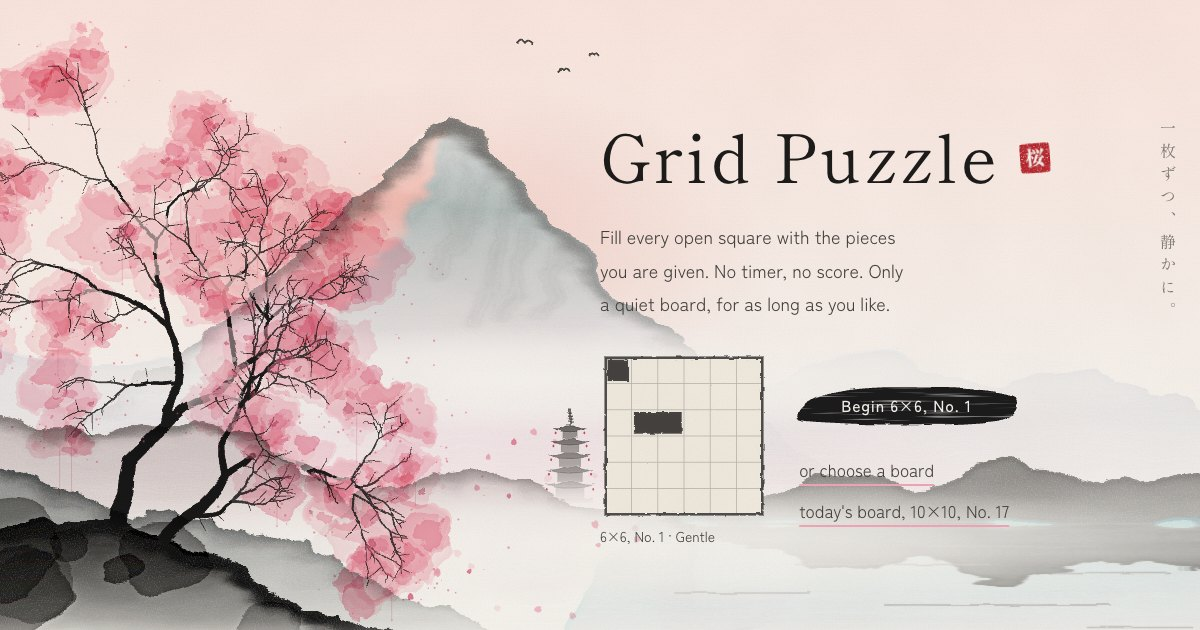
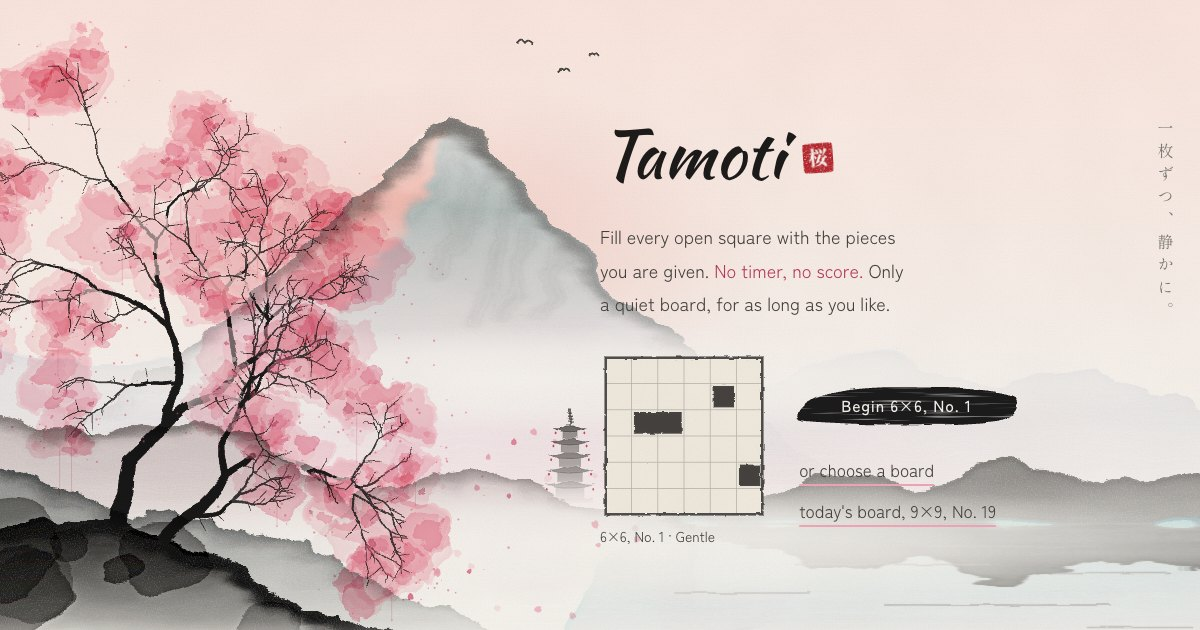
Name the game Tamoti; settle the type; plain coloured highlights
- The name is Tamoti: hero, footer, page title, share text, link preview
- Type settled: Shippori Mincho for headings, Kaushan Script for the
  name, Zen Kaku Gothic New for body; Cormorant Garamond italic only for
  the one picked-out word in a heading. The type switcher and the fonts
  on trial are gone, so the page loads fewer fonts.
- Highlighted words in running text ("No timer, no score.", "filled",
  "nothing to lose") are now just deep pink, no block behind them

diff --git a/src/styles/tokens.css b/src/styles/tokens.css
@@ -79,66 +79,20 @@
 
   /*
     Type, in four roles:
-      display  headings: a high-contrast serif that echoes mincho brushwork;
-      brand    the name, in the hero and the footer: a brush face;
-      accent   the italic for one picked-out word, and for highlights;
-      ui       everything you read.
-    Japanese (the seal and the calligraphy) is always Shippori Mincho.
-    These are the recommended set; others are on trial (see FontSwitcher.tsx).
+      display  headings: Shippori Mincho, whose letters are slightly brush-tipped;
+      brand    the name, Tamoti, in the hero and the footer: Kaushan Script, a flowing brush;
+      accent   the italic for one picked-out word in a heading: Cormorant Garamond
+               (Shippori Mincho has no italic of its own);
+      ui       everything you read: Zen Kaku Gothic New.
+    Japanese (the seal and the calligraphy) is Shippori Mincho too.
   */
   --font-japanese: 'Shippori Mincho', 'Hiragino Mincho ProN', 'Yu Mincho', serif;
-  --font-display: 'Cormorant Garamond', 'Times New Roman', serif;
-  --display-tracking: 0.01em;
-  /* Cormorant's lowercase letters are short; this sets them to a comfortable height. */
-  --display-adjust: 0.47;
-  --font-brand: 'Yuji Syuku', var(--font-japanese);
-  --brand-tracking: 0.02em;
-  --brand-adjust: none;
-  --font-accent: 'Cormorant Garamond', 'Times New Roman', serif;
-  --accent-scale: 1;
-  --font-ui: 'Zen Kaku Gothic New', 'Hiragino Sans', system-ui, sans-serif;
-}
-
-/* Headings on trial. Shippori Mincho, Marcellus and Gilda have no italic, so picked-out words stay in Cormorant italic. */
-:root[data-heading='mincho'] {
   --font-display: var(--font-japanese);
   --display-tracking: 0.04em;
-  --display-adjust: none;
-  --accent-scale: 1.12;
-}
-
-:root[data-heading='marcellus'] {
-  --font-display: 'Marcellus', 'Times New Roman', serif;
-  --display-tracking: 0.03em;
-  --display-adjust: none;
-  --accent-scale: 1.1;
-}
-
-:root[data-heading='gilda'] {
-  --font-display: 'Gilda Display', 'Times New Roman', serif;
-  --display-tracking: 0.01em;
-  --display-adjust: none;
-  --accent-scale: 1.1;
-}
-
-/* The brush face for the name, on trial. "none" sets the name in the heading face. */
-:root[data-brush='kurenaido'] {
-  --font-brand: 'Zen Kurenaido', var(--font-japanese);
-  --brand-tracking: 0.03em;
-}
-
-:root[data-brush='kaushan'] {
   --font-brand: 'Kaushan Script', cursive;
   --brand-tracking: 0;
-}
-
-:root[data-brush='none'] {
-  --font-brand: var(--font-display);
-  --brand-tracking: var(--display-tracking);
-  --brand-adjust: var(--display-adjust);
-}
-
-/* Body text on trial. */
-:root[data-body='jost'] {
-  --font-ui: 'Jost', system-ui, sans-serif;
+  --font-accent: 'Cormorant Garamond', 'Times New Roman', serif;
+  /* Cormorant's letters are small for their size, so its accent words are set a little larger. */
+  --accent-scale: 1.12;
+  --font-ui: 'Zen Kaku Gothic New', 'Hiragino Sans', system-ui, sans-serif;
 }

diff --git a/src/styles/global.css b/src/styles/global.css
@@ -64,31 +64,21 @@ h2 {
 /*
   Picking out words, the way an editorial page does:
   - .accent: one word of a heading in italic, in deep pink;
-  - .highlight: a few words set in a solid block of deep pink, used sparingly.
-  Deep pink (sakura-700) is the one pink that reads clearly against the paper,
-  both as text on paper and as paper-colored text on it.
+  - .highlight: a few words in running text, in deep pink, nothing else.
+  Deep pink (sakura-700) is the one pink that reads clearly against the paper.
 */
 .accent {
   color: var(--sakura-700);
   font-family: var(--font-accent);
   font-size: calc(var(--accent-scale) * 1em);
-  font-size-adjust: var(--display-adjust, none);
   font-style: italic;
   font-weight: inherit;
   letter-spacing: 0;
 }
 
 .highlight {
-  padding: 0.02em 0.26em 0.08em;
-  border-radius: 3px 2px 4px 2px;
-  background: var(--sakura-700);
-  color: var(--paper);
-  font-family: var(--font-accent);
-  font-size: calc(var(--accent-scale) * 1em);
-  font-style: italic;
-  /* If the words wrap onto a second line, each line gets its own block. */
-  box-decoration-break: clone;
-  -webkit-box-decoration-break: clone;
+  background: none;
+  color: var(--sakura-700);
 }
 
 /* Read aloud by screen readers, but not shown. */
@@ -164,48 +154,3 @@ button {
 }
 
 /* The play screen is in play.css. */
-
-/* TEMPORARY: the typeface switcher. Delete with FontSwitcher.tsx. */
-.font-switcher {
-  position: fixed;
-  left: 50%;
-  bottom: 12px;
-  z-index: 30;
-  display: grid;
-  gap: 2px;
-  max-width: calc(100% - 24px);
-  padding: 8px 12px;
-  border-radius: 14px;
-  background: var(--paper);
-  box-shadow: 0 6px 20px -10px color-mix(in oklab, var(--ink-900) 50%, transparent);
-  translate: -50% 0;
-}
-
-.font-switcher [role='group'] {
-  display: flex;
-  flex-wrap: wrap;
-  align-items: center;
-  gap: 2px;
-}
-
-.switcher-label {
-  width: 70px;
-  margin-right: 6px;
-  color: var(--ink-700);
-  font-size: 0.8125rem;
-}
-
-.font-switcher button {
-  padding: 3px 10px;
-  border: 0;
-  border-radius: 999px;
-  background: none;
-  color: var(--ink-700);
-  font-size: 0.8125rem;
-  line-height: 1.6;
-}
-
-.font-switcher button[aria-pressed='true'] {
-  background: var(--ink-900);
-  color: var(--paper);
-}

diff --git a/src/styles/library.css b/src/styles/library.css
@@ -21,7 +21,6 @@
   margin: 0;
   color: var(--ink-900);
   font-family: var(--font-display);
-  font-size-adjust: var(--display-adjust, none);
   font-size: clamp(2rem, 3.2vw, 2.75rem);
   font-weight: 400;
   line-height: 1.15;
@@ -123,7 +122,6 @@
 .size-name {
   color: inherit;
   font-family: var(--font-display);
-  font-size-adjust: var(--display-adjust, none);
   font-size: 1.25rem;
   line-height: 1.3;
   font-variant-numeric: lining-nums tabular-nums;
@@ -197,7 +195,6 @@
   margin: 0;
   color: var(--ink-900);
   font-family: var(--font-display);
-  font-size-adjust: var(--display-adjust, none);
   font-size: clamp(2rem, 3.2vw, 2.75rem);
   font-weight: 400;
   line-height: 1.15;
@@ -224,7 +221,6 @@
   margin: 0 0 28px;
   color: var(--ink-900);
   font-family: var(--font-display);
-  font-size-adjust: var(--display-adjust, none);
   font-size: clamp(2rem, 3.2vw, 2.75rem);
   font-weight: 400;
   line-height: 1.15;
@@ -244,7 +240,6 @@
 .howto-steps strong {
   color: var(--ink-900);
   font-family: var(--font-display);
-  font-size-adjust: var(--display-adjust, none);
   font-size: 1.1875rem;
   font-weight: 400;
 }
@@ -458,7 +453,6 @@
 .piece-size {
   color: var(--ink-700);
   font-family: var(--font-display);
-  font-size-adjust: var(--display-adjust, none);
   font-size: 0.9375rem;
   font-variant-numeric: lining-nums tabular-nums;
 }
@@ -481,7 +475,6 @@
   margin: 0;
   color: var(--ink-900);
   font-family: var(--font-display);
-  font-size-adjust: var(--display-adjust, none);
   font-size: 1.625rem;
   font-weight: 400;
   letter-spacing: var(--display-tracking);
@@ -545,7 +538,6 @@
 .puzzle-number {
   color: var(--ink-700);
   font-family: var(--font-display);
-  font-size-adjust: var(--display-adjust, none);
   font-size: 1rem;
   letter-spacing: var(--display-tracking);
 }
@@ -592,7 +584,6 @@
   margin: 0;
   color: var(--ink-900);
   font-family: var(--font-brand);
-  font-size-adjust: var(--brand-adjust, none);
   font-size: clamp(3rem, 9vw, 7.5rem);
   line-height: 1;
   letter-spacing: var(--brand-tracking);

diff --git a/index.html b/index.html
@@ -9,11 +9,11 @@
     <link rel="preconnect" href="https://fonts.gstatic.com" crossorigin />
     <link
       rel="stylesheet"
-      href="https://fonts.googleapis.com/css2?family=Cormorant+Garamond:ital,wght@0,300;0,400;0,500;1,400;1,500&family=Gilda+Display&family=Jost:wght@300;400;500&family=Kaushan+Script&family=Marcellus&family=Shippori+Mincho:wght@400;500;700&family=Yuji+Syuku&family=Zen+Kaku+Gothic+New:wght@400;500&family=Zen+Kurenaido&display=swap"
+      href="https://fonts.googleapis.com/css2?family=Cormorant+Garamond:ital,wght@1,400;1,500&family=Kaushan+Script&family=Shippori+Mincho:wght@400;500;700&family=Zen+Kaku+Gothic+New:wght@400;500&display=swap"
     />
-    <title>Grid Puzzle</title>
-    <meta name="description" content="A calm grid puzzle: fill every open square with the pieces you're given. No timer, no score, a new board every day." />
-    <meta property="og:title" content="Grid Puzzle" />
+    <title>Tamoti</title>
+    <meta name="description" content="Tamoti, a calm grid puzzle: fill every open square with the pieces you're given. No timer, no score, a new board every day." />
+    <meta property="og:title" content="Tamoti" />
     <meta property="og:description" content="Fill every open square with the pieces you're given. No timer, no score. Only a quiet board, for as long as you like." />
     <meta property="og:type" content="website" />
     <!-- Link previews need the full address of this image; update it once the site has its own address. -->

diff --git a/src/styles/play.css b/src/styles/play.css
@@ -75,7 +75,6 @@
   margin: 0;
   color: var(--ink-900);
   font-family: var(--font-display);
-  font-size-adjust: var(--display-adjust, none);
   font-size: clamp(1.75rem, 3vw, 2.25rem);
   font-weight: 400;
   line-height: 1.2;
@@ -102,7 +101,6 @@
   margin-left: auto;
   color: var(--ink-700);
   font-family: var(--font-display);
-  font-size-adjust: var(--display-adjust, none);
   font-size: 1.0625rem;
   letter-spacing: var(--display-tracking);
 }
@@ -431,7 +429,6 @@ html.is-dragging body {
   margin-bottom: 4px;
   color: var(--ink-900);
   font-family: var(--font-display);
-  font-size-adjust: var(--display-adjust, none);
   font-size: 1.375rem;
   font-weight: 400;
   letter-spacing: var(--display-tracking);
@@ -493,7 +490,6 @@ html.is-dragging body {
   margin: 0 0 12px;
   color: var(--ink-900);
   font-family: var(--font-display);
-  font-size-adjust: var(--display-adjust, none);
   font-size: 1.0625rem;
   font-weight: 400;
   letter-spacing: var(--display-tracking);

diff --git a/src/components/Footer.tsx b/src/components/Footer.tsx
@@ -36,11 +36,11 @@ export function Footer() {
       </svg>
       <div className="footer-inner">
         <p className="footer-mark" data-reveal>
-          Grid Puzzle
+          Tamoti
           <Seal className="footer-seal" />
         </p>
         <p className="footer-line" data-reveal style={{ '--d': '120ms' } as CSSProperties}>
-          A quiet puzzle to come back to. No timer, no score, <em className="accent">nothing to lose</em>.
+          A quiet puzzle to come back to. No timer, no score, <mark className="highlight">nothing to lose</mark>.
         </p>
         <a className="footer-top" href="#top" data-reveal style={{ '--d': '220ms' } as CSSProperties}>
           Back to the top

diff --git a/src/screens/Play.tsx b/src/screens/Play.tsx
@@ -172,7 +172,7 @@ export function Play({ id, go, found, onSolved }: Props) {
   // Share the board: the phone's share sheet where there is one, otherwise copy the link.
   const share = async () => {
     const url = `${window.location.origin}${window.location.pathname}?p=${id}`
-    const title = `Grid Puzzle, ${entry.size}×${entry.size} No. ${entry.number}`
+    const title = `Tamoti, ${entry.size}×${entry.size} No. ${entry.number}`
     try {
       if (navigator.share) await navigator.share({ title, url })
       else {

diff --git a/src/App.tsx b/src/App.tsx
@@ -1,4 +1,3 @@
-import { FontSwitcher } from './components/FontSwitcher'
 import { WashFilters } from './components/hero/WashFilters'
 import { Library } from './screens/Library'
 import { Play } from './screens/Play'
@@ -19,7 +18,6 @@ export default function App() {
       ) : (
         <Library size={route.size} go={go} solved={solved} found={found} />
       )}
-      <FontSwitcher />
     </>
   )
 }

diff --git a/src/components/hero/Hero.tsx b/src/components/hero/Hero.tsx
@@ -77,7 +77,7 @@ export function Hero({ size, next, onBegin, daily }: Props) {
 
       <div className="hero-copy">
         <div className="hero-title-row">
-          <h1 id="hero-title">Grid Puzzle</h1>
+          <h1 id="hero-title">Tamoti</h1>
           <Seal className="hero-seal" />
         </div>
         <p className="hero-lede">

diff --git a/src/styles/hero.css b/src/styles/hero.css
@@ -172,7 +172,6 @@
   margin: 0;
   color: var(--ink-900);
   font-family: var(--font-brand);
-  font-size-adjust: var(--brand-adjust, none);
   font-size: clamp(3rem, 5.6vw, 5.75rem);
   font-weight: 400;
   line-height: 1.02;

diff --git a/PRODUCT.md b/PRODUCT.md
@@ -41,7 +41,7 @@ A calm alternative to the feed, not another attention trap. Puzzles are generate
 - Solution count, plus a gallery of the solutions the player has found.
 - One daily puzzle, the same for everyone. Puzzles can be shared by link.
 - No accounts and no server.
-- **Undecided:** the product name (chosen during the design exploration), and whether there are soft sounds (off by default if added).
+- **Name:** Tamoti. Soft sounds are in, off by default.
 
 ## Brand Commitments
 
